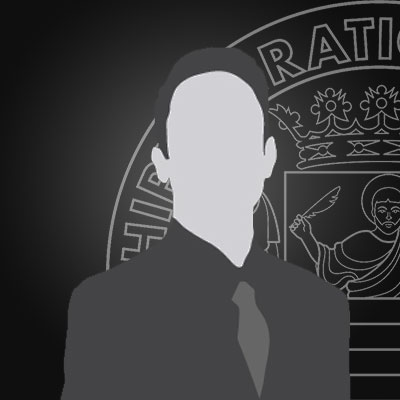
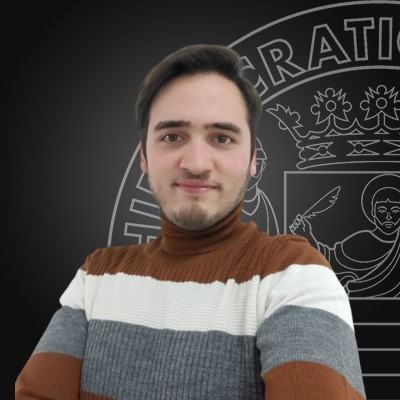
fix team

diff --git a/en/index.html b/en/index.html
@@ -37,10 +37,6 @@
 
 <body>
 
-  <!-- TODO for the sections: add border top to separate titles and content;
-    fix colors -->
-
-
   <!-- ======= Header ======= -->
   <header id="header" class="header fixed-top">
     <div class="container-fluid container-xl d-flex align-items-center justify-content-between">
@@ -65,6 +61,7 @@
     </div>
   </header><!-- End Header -->
 
+
   <main id="main">
 
     <!-- ======= Intro Logo ======= -->
@@ -77,8 +74,6 @@
     </section><!-- End Intro Logo-->
 
 
-
-
     <!-- ======= About ======= -->
     <section id="about" class="about">
 
@@ -88,10 +83,7 @@
           <div class="col-lg-8 d-flex flex-column justify-content-center" data-aos="fade-up" data-aos-delay="200">
             <div class="content">
               <h1>About</h1>
-              <!--<h2>Expedita voluptas omnis cupiditate totam eveniet nobis sint iste. Dolores est repellat corrupti
-                reprehenderit.</h2>-->
               <p>
-
                 Welcome to the homepage of the Software Engineering (SeSa) Research Lab!
                 <br /><br />
                 Our mission is to (1) understand how humans design, maintain, and evolve complex and artificial
@@ -125,8 +117,7 @@
               </p>
             </div>
           </div>
-
-          <!--
+          <!-- group photo
           <div class="col-lg-6 d-flex align-items-center" data-aos="zoom-out" data-aos-delay="200">
             <img src="../assets/img/about.jpg" class="img-fluid" alt="">
           </div> -->
@@ -136,9 +127,7 @@
     </section><!-- End About Section -->
 
 
-
-
-    <!-- ======= About ======= -->
+    <!-- ======= ISSSE ======= -->
     <section id="issse" class="issse">
 
       <div class="container justify-content-center" data-aos="fade-up">
@@ -167,10 +156,6 @@
     </section><!-- End ISSSE Section -->
 
 
-
-
-
-    <!-- TODO 1-minute self-introduction videos -->
     <!-- ======= Team ======= -->
 
     <section id="team" class="team">
@@ -182,6 +167,10 @@
         </header>
 
         <!---------- First Row of Professors ---------->
+
+        <header class="section-header">
+          <h2>Faculty Members</h2>
+        </header>
 
         <div class="row gy-4 justify-content-center">
 
@@ -248,6 +237,7 @@
         </div>
 
         <!---------- Second Row of Professors ---------->
+
         <div class="row gy-4 justify-content-center">
 
           <div class="col-lg-4 col-md-6 d-flex justify-content-center" data-aos="fade-up" data-aos-delay="100">
@@ -292,7 +282,12 @@
 
         </div>
 
-        <!---------- PostDoc + First Row of PhD students ---------->
+        <!---------- PostDoc ---------->
+
+        <header class="section-header">
+          <h2>Research Associates</h2>
+        </header>
+
         <div class="row gy-4 justify-content-center">
 
           <div class="col-lg-3 col-md-6 d-flex justify-content-center" data-aos="fade-up" data-aos-delay="100">
@@ -314,6 +309,16 @@
               </div>
             </div>
           </div>
+
+        </div>
+
+        <!---------- First Row of PhD students (36 cycle) ---------->
+
+        <header class="section-header">
+          <h2>Ph.D. Students</h2>
+        </header>
+
+        <div class="row gy-4 justify-content-center">
 
           <div class="col-lg-3 col-md-6 d-flex justify-content-center" data-aos="fade-up" data-aos-delay="100">
             <div class="member">
@@ -375,10 +380,6 @@
             </div>
           </div>
 
-        </div>
-
-        <!---------- Second Row of PhD students ---------->
-        <div class="row gy-4 justify-content-center">
           <div class="col-lg-3 col-md-6 d-flex justify-content-center" data-aos="fade-up" data-aos-delay="100">
             <div class="member">
               <div class="member-img">
@@ -399,6 +400,12 @@
             </div>
           </div>
 
+        </div>
+
+        <!---------- Second Row of PhD students (37 cycle) ---------->
+
+        <div class="row gy-4 justify-content-center">
+
           <div class="col-lg-3 col-md-6 d-flex justify-content-center" data-aos="fade-up" data-aos-delay="100">
             <div class="member">
               <div class="member-img">
@@ -408,11 +415,11 @@
                 <h4>Francesco Casillo</h4>
                 <span>Ph.D. Student</span>
                 <p>
-                  <a href="https://www.unisa.it/"><i class="bi bi-globe2" data-toggle="tooltip" data-placement="bottom"
+                  <a href=""><i class="bi bi-globe2" data-toggle="tooltip" data-placement="bottom"
                       title="Personal page"></i></a>
                   <a href="mailto:fcasillo@unisa.it"><i class="bi bi-envelope-fill" data-toggle="tooltip"
                       data-placement="bottom" title="fcasillo@unisa.it"></i></a>
-                  <a href="https://twitter.com/"><i class="bi bi-twitter" data-toggle="tooltip" data-placement="bottom"
+                  <a href=""><i class="bi bi-twitter" data-toggle="tooltip" data-placement="bottom"
                       title="Twitter profile"></i></a>
                 </p>
               </div>
@@ -471,32 +478,13 @@
     </section><!-- End Team Section -->
 
 
-
     <!-- ======= Research ======= -->
-    <!-- TODO links to medium/reddit lay summaries grouped by category -->
-    <!-- OR blog/portfolio pages without going on reddit -->
-    <!-- 
-          software maintenance and evolution, 
-          reverse engineering and source code analysis, 
-          software processes, 
-          empirical software engineering, 
-          software metrics, 
-          software testing, 
-          workflow management, 
-          human and social aspects of software engineering,
-          se for iot privacy & security,
-          se4ai,
-          ai4se,
-          quantum software engineering
-        -->
-
     <section id="research" class="research">
 
       <div class="container" data-aos="fade-up">
 
         <header class="section-header">
           <h1>Research</h1>
-
         </header>
 
         <div class="row gx-0 justify-content-center">
@@ -525,10 +513,6 @@
               </div>
               -->
 
-              <!-- TODO 
-              icons / links? 
-              style
-              -->
               <div class="col-lg-3 col-md-4 col-sm-6" data-aos="zoom-out" data-aos-delay="200">
                 <div class="research-box d-flex align-items-center">
                   <h3>Software Maintenance and Evolution</h3>
@@ -607,15 +591,36 @@
         </div> <!-- / row -->
 
 
+        <!-- Collaborations 
+          <header class="section-header">
+            <h2>Collaborations</h2>
+          </header>
+
+          <div class="clients-slider swiper">
+            <div class="swiper-wrapper align-items-center">
+              <div class="swiper-slide"><img src="../assets/img/clients/client-1.png" class="img-fluid" alt=""></div>
+              <div class="swiper-slide"><img src="../assets/img/clients/client-2.png" class="img-fluid" alt=""></div>
+              <div class="swiper-slide"><img src="../assets/img/clients/client-3.png" class="img-fluid" alt=""></div>
+              <div class="swiper-slide"><img src="../assets/img/clients/client-4.png" class="img-fluid" alt=""></div>
+              <div class="swiper-slide"><img src="assets/img/clients/client-5.png" class="img-fluid" alt=""></div>
+              <div class="swiper-slide"><img src="assets/img/clients/client-6.png" class="img-fluid" alt=""></div>
+              <div class="swiper-slide"><img src="assets/img/clients/client-7.png" class="img-fluid" alt=""></div>
+              <div class="swiper-slide"><img src="assets/img/clients/client-8.png" class="img-fluid" alt=""></div>
+            </div>
+            <div class="swiper-pagination"></div>
+          </div>-->
+          
       </div>
+
+
+
+
+
+      </div> <!-- / container -->
 
     </section><!-- End Research Section -->
 
 
-
-
-
-    <!-- TODO -->
     <!-- ======= Education ======= -->
     <section id="education" class="education">
 
@@ -647,9 +652,7 @@
     </section><!-- End Education Section -->
 
 
-    <!-- TODO twitter / instagram / tiktok feed -->
     <!-- ======= Contact ======= -->
-    <!-- TODO add social networks -->
     <section id="contact" class="contact">
 
       <div class="container" data-aos="fade-up">
@@ -660,7 +663,7 @@
 
         <div class="row gy-4 justify-content-center">
 
-          <div class="col-md-3">
+          <div class="col-lg-3 col-md-4">
             <div class="info-box">
               <i class="bi bi-geo-alt"></i>
               <h3>Address</h3>
@@ -668,18 +671,18 @@
                   Salerno</a><br />F2 Building, Floor -1</p>
             </div>
           </div>
-          <div class="col-md-3">
+          <div class="col-lg-3 col-md-4">
             <div class="info-box">
               <i class="bi bi-telephone"></i>
               <h3>Telephone</h3>
               <p><br />+39 089 963381</p>
             </div>
           </div>
-          <div class="col-md-3">
+          <div class="col-lg-3 col-md-4">
             <div class="info-box">
               <i class="bi bi-envelope"></i>
               <h3>Email</h3>
-              <p><br /><a href="mailto:sesa.lab.unisa@gmail.com">sesa.lab.unisa@gmail.com</a></p>
+              <p><br /><a href="mailto:sesalab@unisa.it">sesalab@unisa.it</a></p>
             </div>
           </div>
 
@@ -688,6 +691,7 @@
     </section><!-- End Contact Section -->
 
   </main><!-- End #main -->
+
 
   <!-- ======= Footer ======= -->
   <footer id="footer" class="footer">

diff --git a/assets/css/style.css b/assets/css/style.css
@@ -1511,6 +1511,9 @@ section {
 .team .row {
   padding-bottom: 30px;
 }
+.team h2 {
+  color: black;
+}
 .team .member {
   width: fit-content;
   overflow: hidden;
